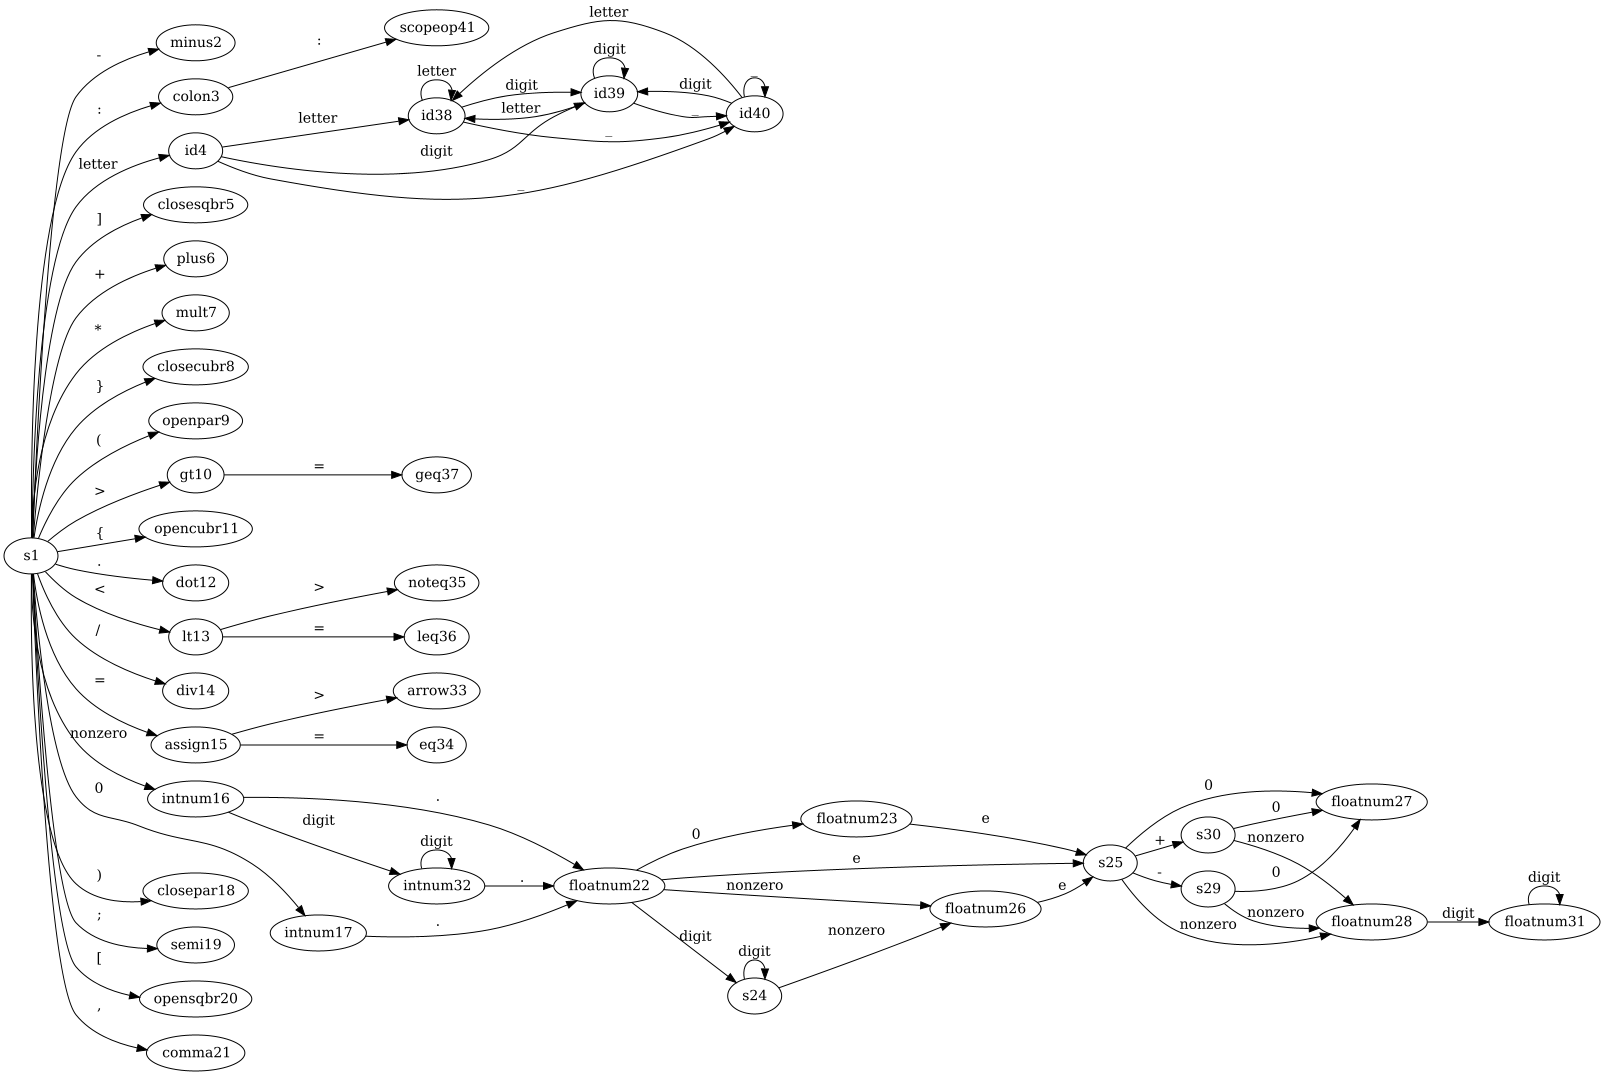
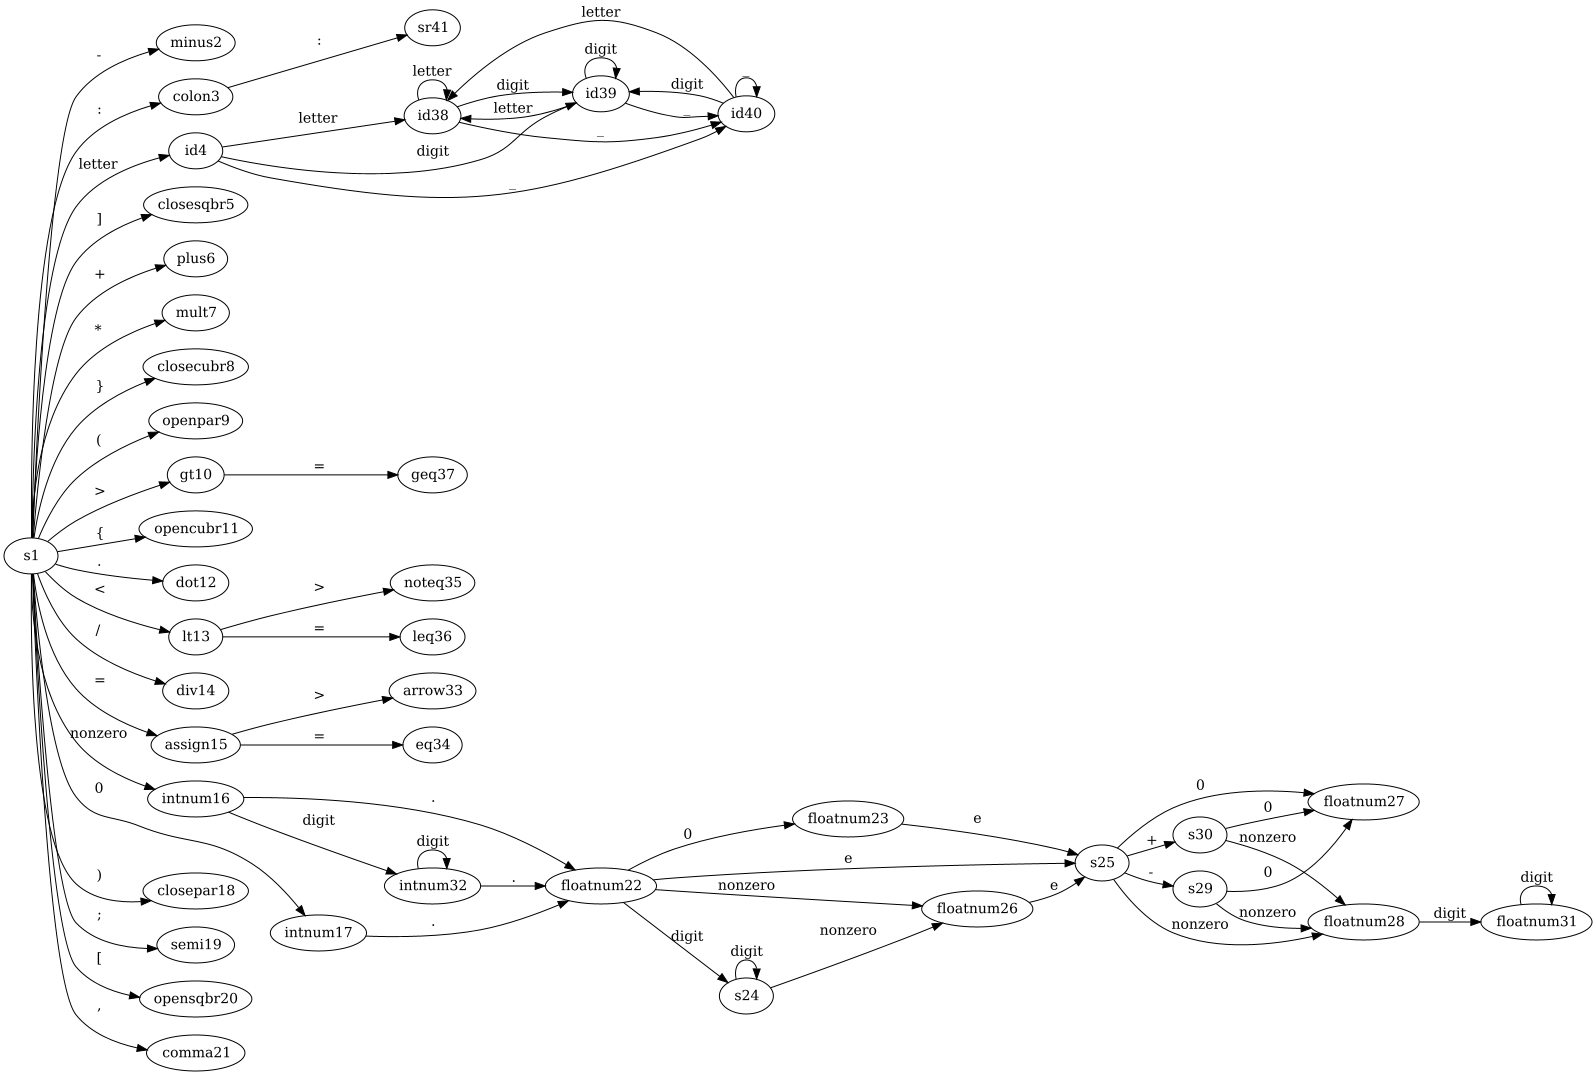
Fix grammar for function

diff --git a/src/syntactical_analysis/GrammarTableGenerator.java b/src/syntactical_analysis/GrammarTableGenerator.java
@@ -79,11 +79,6 @@ public class GrammarTableGenerator {
 
                 for (String terminal : lineFollowSet)
                     grammarTable.get(leftHandSide).put(terminal, line);
-            } else {
-                Set<String> lineFirstSet = firstSets.get(leftHandSide);
-
-                for (String terminal : lineFirstSet)
-                    grammarTable.get(leftHandSide).put(terminal, line);
             }
         }
 
@@ -96,13 +91,22 @@ public class GrammarTableGenerator {
 
         firstSets.put(rule, new HashSet<String>());
 
+        if (! grammarTable.containsKey(rule))
+            grammarTable.put(rule, new HashMap<String, String>());
+
         for (String[] rhs : rules.get(rule)) {
             for (int i = 0 ; i < rhs.length ; i++) {
                 if (isTerminal(rhs[i])) {
-                    firstSets.get(rule).add(rhs[i].substring(1, rhs[i].length() - 1));
+                    String terminal = rhs[i].substring(1, rhs[i].length() - 1);
+                    firstSets.get(rule).add(terminal);
+                    grammarTable.get(rule).put(terminal, rule + " -> " + String.join(" ", rhs));
                 } else if (!rhs[i].equals("EPSILON")) {
                     generateFirstSet(rhs[i]);
                     firstSets.get(rule).addAll(firstSets.get(rhs[i]));
+
+                    for (String terminal : firstSets.get(rhs[i])) {
+                        grammarTable.get(rule).put(terminal, rule + " -> " + String.join(" ", rhs));
+                    }
                 }
 
                 if (!canBeEpsilon.contains(rhs[i]))

diff --git a/src/lexical_analysis/Token.java b/src/lexical_analysis/Token.java
@@ -33,7 +33,7 @@ public enum Token {
     DOT("dot", ".", true, true, false),
     COLON("colon", ":", true, true, false),
     ARROW("arrow", "= >", true, true, false), // used to be called RETURN_TYPE with 'returntype' as the name
-    SCOPE_OP("scopeop", ": :", true, true, false),
+    SCOPE_REDUCTION("sr", ": :", true, true, false),
     // RESERVED WORDS
     OR("or", "", false, false, true),
     AND("and", "", false, false, true),
